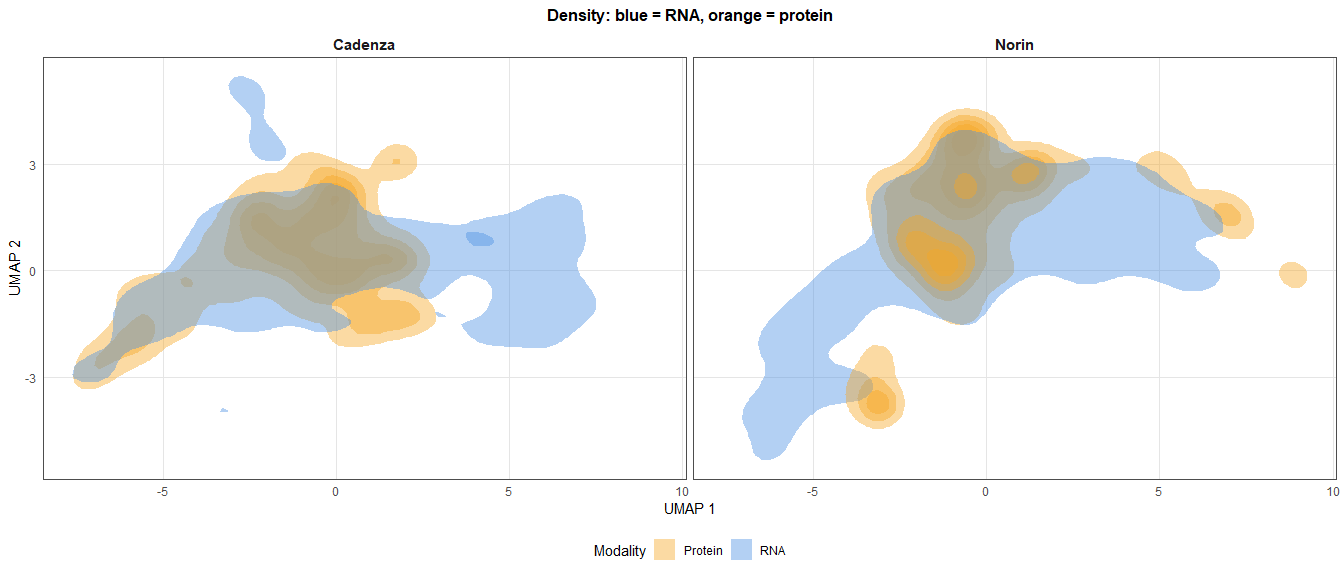
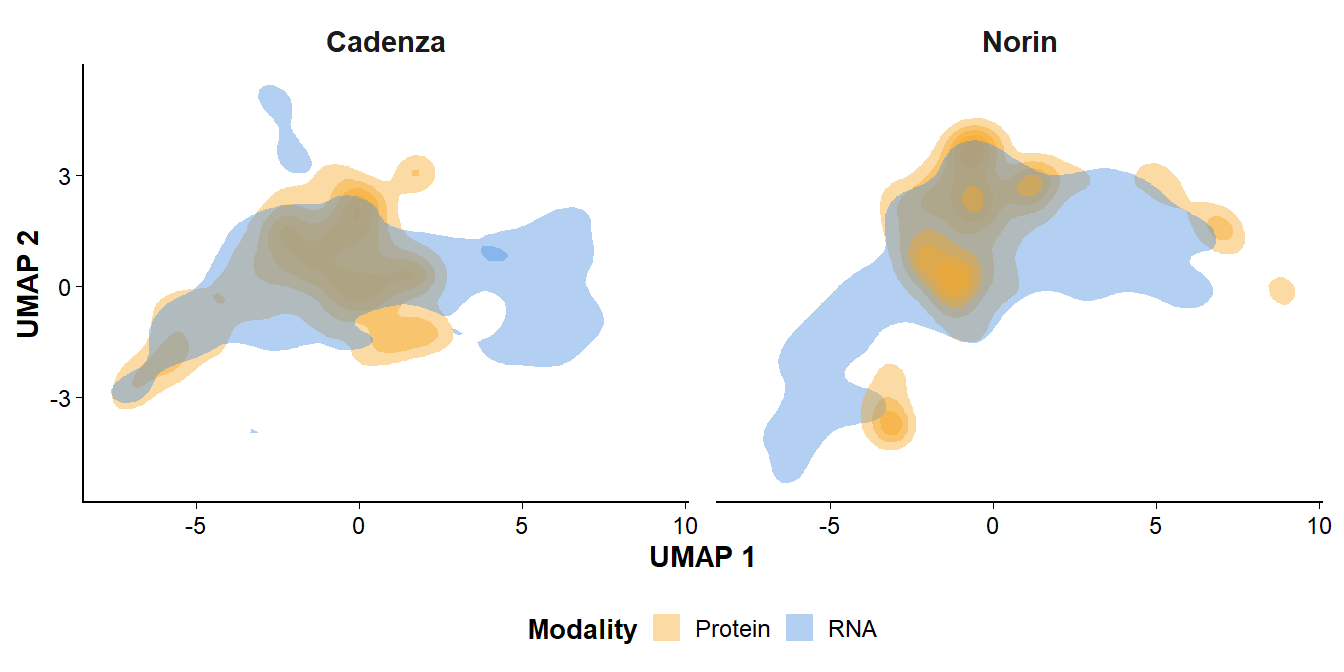
Updates on shared distance

diff --git a/analysis/gene-distance/gene_distance_shared_space.md b/analysis/gene-distance/gene_distance_shared_space.md
@@ -1593,26 +1593,90 @@ density_data <- local({
 })
 
 # Create plot with ggplot2: separate panels per variety, overlaid densities
-p <- ggplot(density_data, aes(x = UMAP1, y = UMAP2, fill = modality)) +
-  facet_wrap(~variety, ncol = 2) +
-  stat_density2d(geom = "polygon", alpha = 0.42, bins = 6, contour = TRUE) +
-  scale_fill_manual(
-    values = c("RNA" = "#4A90E2", "Protein" = "#F5A623"),
-    guide = guide_legend(title = "Modality", reverse = FALSE)
+p <- ggplot(
+  density_data,
+  aes(x = UMAP1, y = UMAP2, fill = modality)
+) +
+  facet_wrap(~ variety, ncol = 2) +
+
+  stat_density_2d(
+    geom = "polygon",
+    alpha = 0.42,
+    bins = 6,
+    contour = TRUE,
+    colour = NA
   ) +
+
+  scale_fill_manual(
+    values = c(
+      "RNA"     = "#4A90E2",
+      "Protein" = "#F5A623"
+    ),
+    name = "Modality"
+  ) +
+
   labs(
     x = "UMAP 1",
-    y = "UMAP 2",
-    title = "Density: blue = RNA, orange = protein"
+    y = "UMAP 2"
   ) +
-  theme_minimal() +
+
+  theme_classic(base_size = 20) +
+
   theme(
-    panel.border = element_rect(fill = NA, color = "gray30", linewidth = 0.3),
-    panel.grid.minor = element_blank(),
-    panel.grid.major = element_line(color = "gray90", linewidth = 0.2),
-    strip.text = element_text(face = "bold", size = 11),
-    plot.title = element_text(face = "bold", size = 12, hjust = 0.5),
-    legend.position = "bottom"
+    strip.background = element_blank(),
+
+    strip.text = element_text(
+      face = "bold",
+      size = 22
+    ),
+
+    axis.title = element_text(
+      size = 22,
+      face = "bold"
+    ),
+
+    axis.text = element_text(
+      size = 18,
+      colour = "black"
+    ),
+
+    axis.line = element_line(
+      colour = "black",
+      linewidth = 0.8
+    ),
+
+    axis.ticks = element_line(
+      colour = "black",
+      linewidth = 0.7
+    ),
+
+    axis.ticks.length = unit(0.18, "cm"),
+
+    legend.position = "bottom",
+
+    legend.title = element_text(
+      size = 20,
+      face = "bold"
+    ),
+
+    legend.text = element_text(
+      size = 18
+    ),
+
+    legend.key.size = unit(0.8, "cm"),
+
+    panel.spacing = unit(1.5, "lines"),
+
+    plot.margin = margin(
+      12, 16, 12, 12
+    )
+  ) +
+
+  guides(
+    fill = guide_legend(
+      title.position = "left",
+      override.aes = list(alpha = 0.42)
+    )
   )
 
 print(p)
@@ -1802,14 +1866,94 @@ for (nm in c("Cadenza", "Norin")) {
 
     Warning in title(...): "alpha" is not a graphical parameter
 
-![V4: Correlation of gene distances across spaces. All three methods
-rank genes similarly (high Spearman rank correlation), but full space is
-the most informative for
-ranking.](gene_distance_shared_space_files/figure-commonmark/v4-correlation-comparisons-1.png)
+![V4: Full space vs. top-2 PCA. PCA tracks full-space ranking closely
+(high Spearman rank correlation) – see v4-agreement-table below for the
+UMAP comparison, which does
+not.](gene_distance_shared_space_files/figure-commonmark/v4-correlation-comparisons-1.png)
 
 ``` r
 par(op)
 ```
+
+`r_full_umap` and `r_pca_umap` above were computed but never reported –
+the loop only ever plotted full-vs-PCA. Surfacing them, plus what
+fraction of the genes each space would call “most discordant” actually
+agree with the full-space call, since a rank correlation alone can hide
+whether the *specific genes at the top of the table* (the ones anyone
+would actually follow up on) are the same genes:
+
+``` r
+v4_agreement <- do.call(rbind, lapply(c("Cadenza", "Norin"), function(nm) {
+  d <- GD[[nm]]$genes
+  k <- round(0.10 * nrow(d))
+  top_full <- d$gene_id[order(-d$d_full)][1:k]
+  top_pca  <- d$gene_id[order(-d$d_pca2)][1:k]
+  top_umap <- d$gene_id[order(-d$d_umap)][1:k]
+
+  data.frame(
+    variety                = nm,
+    n_genes                = nrow(d),
+    rho_full_vs_pca        = round(cor(d$d_full, d$d_pca2, method = "spearman"), 3),
+    rho_full_vs_umap       = round(cor(d$d_full, d$d_umap, method = "spearman"), 3),
+    rho_pca_vs_umap        = round(cor(d$d_pca2, d$d_umap, method = "spearman"), 3),
+    top10pct_overlap_pca_n = length(intersect(top_full, top_pca)),
+    top10pct_overlap_umap_n = length(intersect(top_full, top_umap)),
+    top10pct_n              = k
+  )
+}))
+
+knitr::kable(v4_agreement,
+            caption = "V4: how much of the full-space ranking survives PCA-2 vs. UMAP, on the real data. top10pct_overlap_*_n / top10pct_n is what fraction of the full-space 'most discordant' decile that projection still puts in its own most-discordant decile.")
+```
+
+| variety | n_genes | rho_full_vs_pca | rho_full_vs_umap | rho_pca_vs_umap | top10pct_overlap_pca_n | top10pct_overlap_umap_n | top10pct_n |
+|:--------|--------:|----------------:|-----------------:|----------------:|-----------------------:|------------------------:|-----------:|
+| Cadenza |    5580 |           0.869 |            0.549 |           0.682 |                    408 |                     179 |        558 |
+| Norin   |    5159 |           0.865 |            0.514 |           0.613 |                    380 |                     139 |        516 |
+
+V4: how much of the full-space ranking survives PCA-2 vs. UMAP, on the
+real data. top10pct_overlap\_\*\_n / top10pct_n is what fraction of the
+full-space ‘most discordant’ decile that projection still puts in its
+own most-discordant decile.
+
+``` r
+op <- par(mfrow = c(1, 2))
+
+for (nm in c("Cadenza", "Norin")) {
+  d <- GD[[nm]]$genes
+  r_full_umap <- cor(d$d_full, d$d_umap, method = "spearman")
+
+  plot(d$d_full, d$d_umap, pch = 19, col = "#2E86AB",
+       main = paste(nm, ": Full space vs UMAP\nSpearman ρ =", round(r_full_umap, 3)),
+       xlab = "Distance (full standardised space)",
+       ylab = "Distance (2D UMAP)")
+  abline(lm(d$d_umap ~ d$d_full), col = "#D1495B", lwd = 2)
+}
+```
+
+![V4b: Full space vs. 2D UMAP. Compare the spread here to
+v4-correlation-comparisons above – UMAP distance tracks full-space
+distance far more loosely than PCA does, consistent with the lower rho
+and top-decile overlap in
+v4-agreement-table.](gene_distance_shared_space_files/figure-commonmark/v4b-fig-full-vs-umap-1.png)
+
+``` r
+par(op)
+```
+
+**Reading this against §5’s G2 (simulated data):** there, compressing to
+2D UMAP cost ~2.6% AUC (0.820 -\> 0.799) for separating known-discordant
+genes from baseline – a small loss. On the real data, the loss looks
+much bigger by this measure: rho drops to ~0.51-0.55 (vs ~0.87 for
+PCA-2), and only ~27-32% of the genes in the full-space “most
+discordant” decile are still in UMAP’s own most-discordant decile (vs
+~73% for PCA-2). The two measures are not contradictory – G2’s AUC asks
+“does this space still separate archetypes on average,” which tolerates
+a lot of individual-gene reshuffling; the agreement table above asks “is
+it the *same genes* at the top,” which does not. For picking specific
+genes to follow up on (as in §8’s top-15 tables), the second question is
+the one that matters, and by that measure UMAP is a much less faithful
+summary of `d_full` than the AUC comparison alone would suggest.
 
 ------------------------------------------------------------------------
 
@@ -1860,11 +2004,11 @@ signal is real (G3: permutation p = 0.005). However:
 
 From G2 and V4:
 
-| Space                 | Use for ranking?        | AUC (discordant vs baseline) | Notes                                                                                         |
-|-----------------------|-------------------------|------------------------------|-----------------------------------------------------------------------------------------------|
-| **Full standardised** | ✅ Yes (A4 validated)   | 0.820                        | Most informative, distance preserved exactly                                                  |
-| **Top-2 PCA**         | ✅ Yes (nearly as good) | 0.827                        | Minimal loss of ranking power; visualisable as 2D plot                                        |
-| **2D UMAP**           | ⚠ Use with caution     | 0.799                        | Designed for local structure, not global distances; loses ~2% AUC but more intuitive visually |
+| Space                 | Use for ranking?        | AUC (discordant vs baseline) | Notes                                                                                                                                                                                                                                                                                       |
+|-----------------------|-------------------------|------------------------------|---------------------------------------------------------------------------------------------------------------------------------------------------------------------------------------------------------------------------------------------------------------------------------------------|
+| **Full standardised** | ✅ Yes (A4 validated)   | 0.820                        | Most informative, distance preserved exactly                                                                                                                                                                                                                                                |
+| **Top-2 PCA**         | ✅ Yes (nearly as good) | 0.827                        | Minimal loss of ranking power; visualisable as 2D plot                                                                                                                                                                                                                                      |
+| **2D UMAP**           | ⚠ Use with caution     | 0.799                        | ~2% AUC loss on simulated archetypes, but on the real data (v4-agreement-table) rank correlation with `d_full` is only ρ≈0.51-0.55 and just ~27-32% of the top-decile “most discordant” genes agree with the full-space call – a much bigger practical loss than the AUC gap alone suggests |
 
 **Recommendation:**
 
